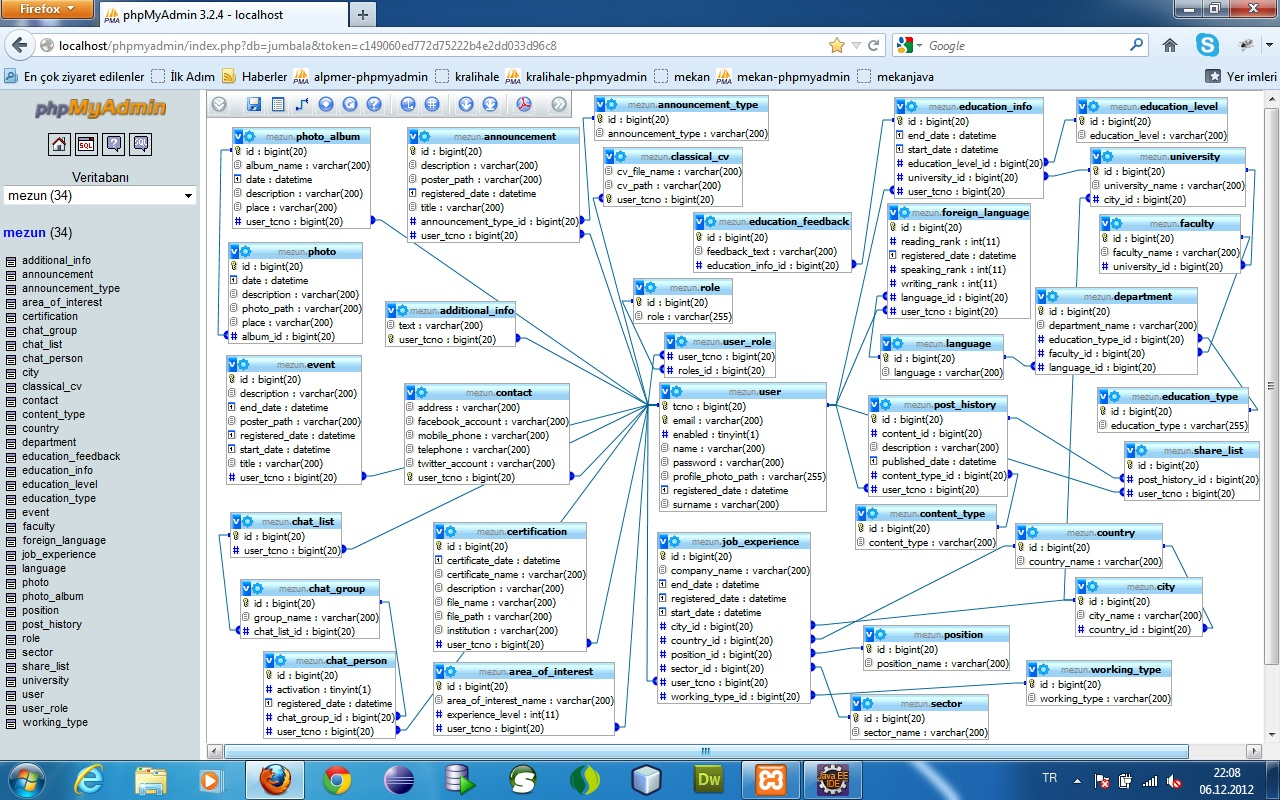
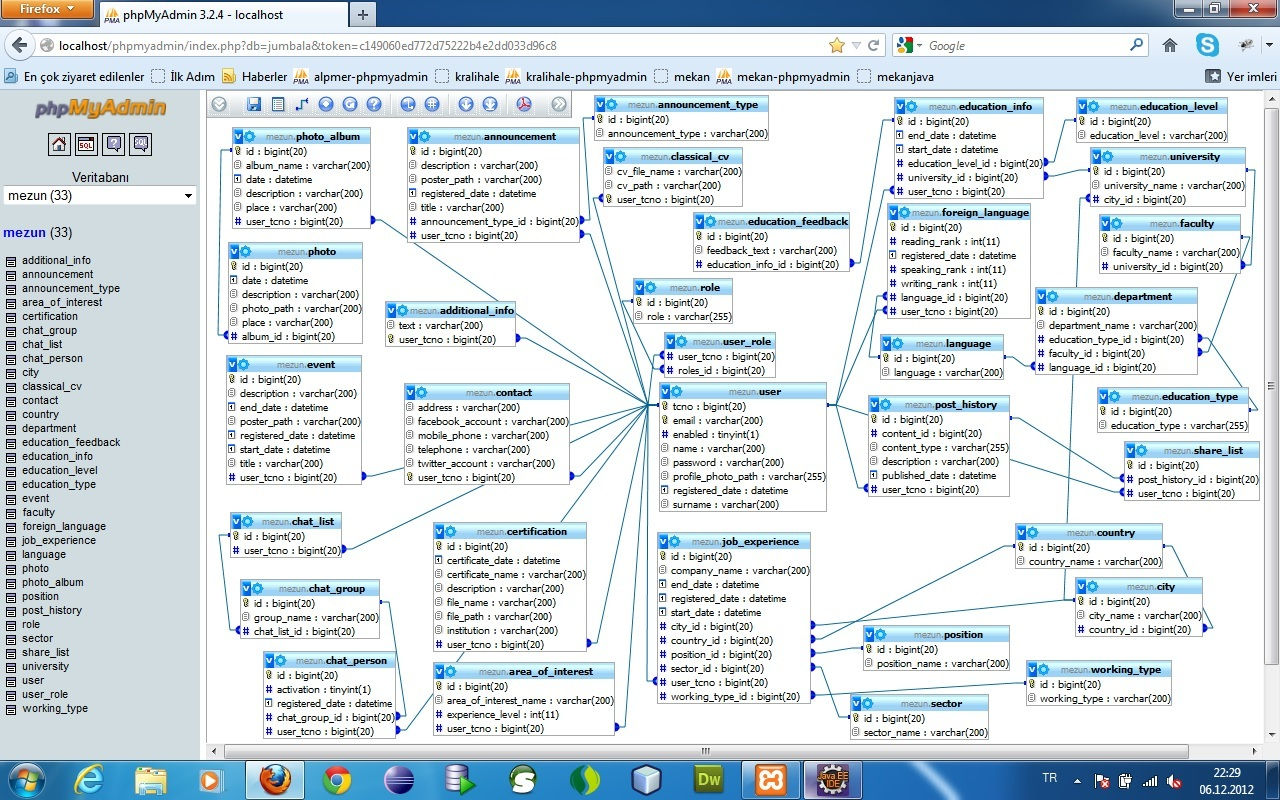
6 aralik 2012 2.push

diff --git a/mezun/src/main/java/com/orcun/mezun/model/PostHistory.java b/mezun/src/main/java/com/orcun/mezun/model/PostHistory.java
@@ -6,17 +6,18 @@ import java.util.Date;
 import javax.persistence.CascadeType;
 import javax.persistence.Column;
 import javax.persistence.Entity;
-import javax.persistence.FetchType;
+import javax.persistence.EnumType;
+import javax.persistence.Enumerated;
 import javax.persistence.GeneratedValue;
 import javax.persistence.GenerationType;
 import javax.persistence.Id;
-import javax.persistence.JoinColumn;
 import javax.persistence.ManyToOne;
-import javax.persistence.OneToOne;
 import javax.persistence.Table;
 
 import org.hibernate.annotations.OnDelete;
 import org.hibernate.annotations.OnDeleteAction;
+
+import com.orcun.mezun.model.enums.ContentType;
 
 
 @Entity
@@ -35,9 +36,9 @@ public class PostHistory implements Serializable{
 	@Column(name="published_date",nullable=false)
 	private Date publishedDate=new Date();
 	
-	@OneToOne(fetch=FetchType.EAGER)
-	@JoinColumn(name="content_type_id")
-	private ContentType contentType;
+	@Enumerated(EnumType.STRING)
+	@Column(name="content_type")
+	private ContentType contentType=ContentType.TEXT;
 	
 	@Column(name="content_id",nullable=false)
 	private Long contentID;

diff --git a/mezun/src/main/java/com/orcun/mezun/model/enums/ContentType.java b/mezun/src/main/java/com/orcun/mezun/model/enums/ContentType.java
@@ -1,0 +1,8 @@
+package com.orcun.mezun.model.enums;
+
+
+public enum ContentType{
+	
+	EVENT,ANNOUNCEMENT,PHOTO_ALBUM,PHOTO,TEXT;
+
+}
